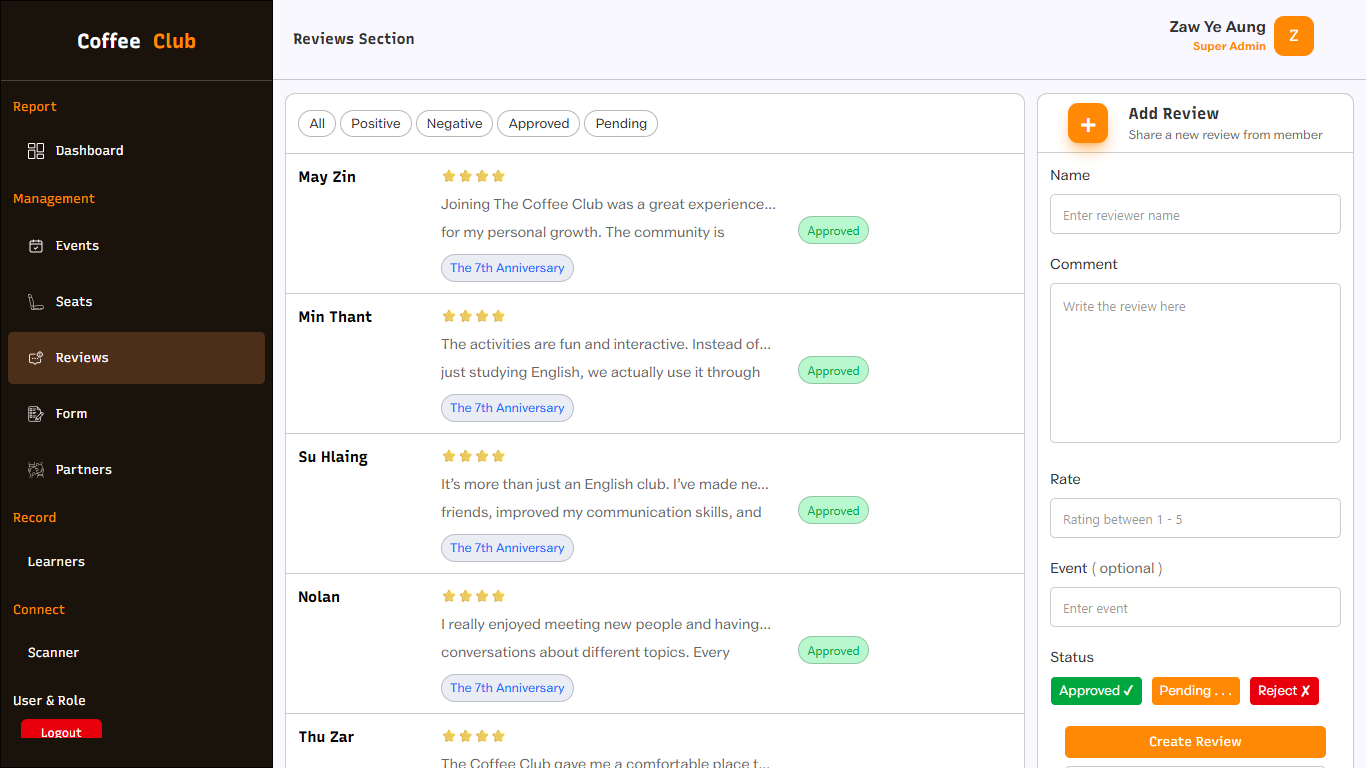
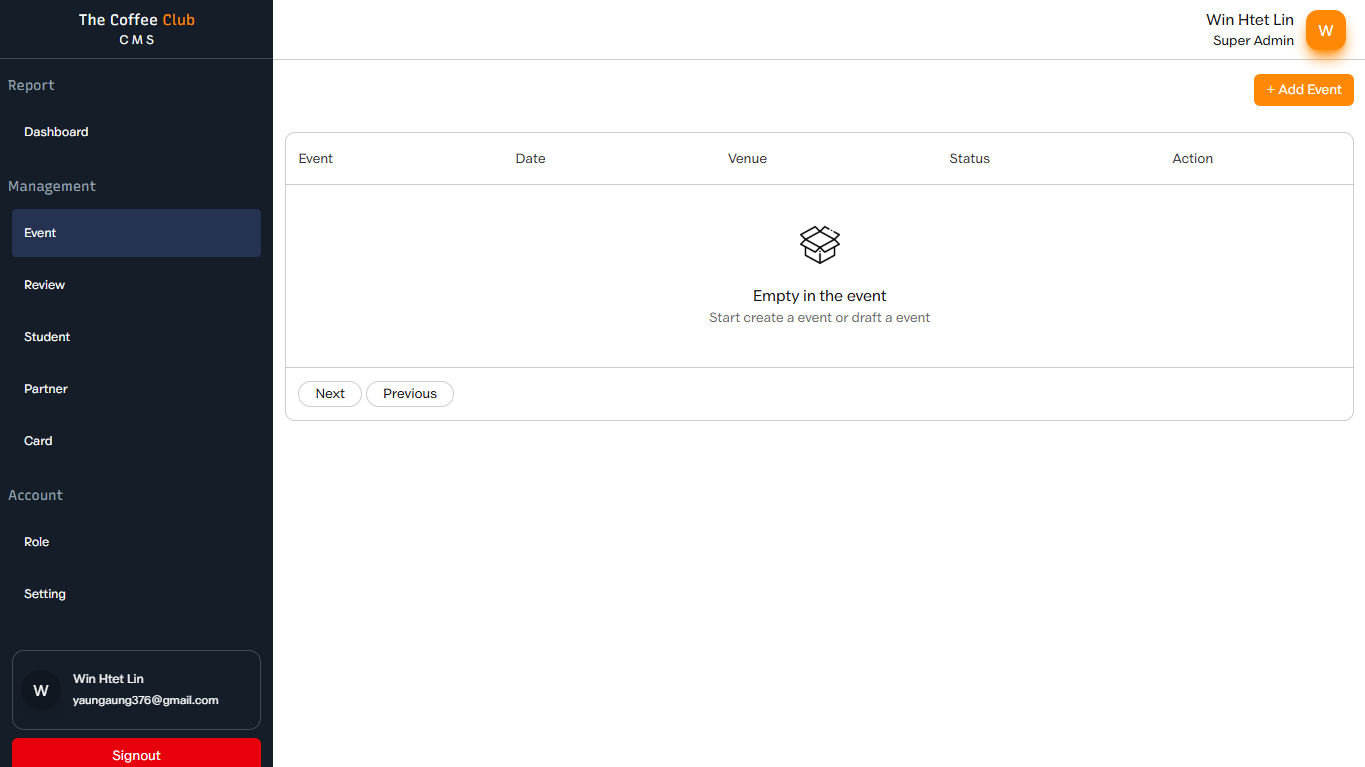
Updated

diff --git a/src/components/intro.jsx b/src/components/intro.jsx
@@ -1,5 +1,4 @@
 import { motion } from 'motion/react';
-import { useRef } from 'react';
 import SocialIcon from '../techstack.js';
 import MiPhoto from '../assets/mi.png';
 
@@ -28,39 +27,39 @@ const Intro = ({ ScrollToSection, ContactRef, HomeRef }) => {
     }
 
     return (
-        <div ref={HomeRef} className="flex flex-col w-full items-center h-[100vh]">
-            <main className="w-full flex flex-col items-center h-[100%]">
-                <div className="flex justify-center w-320 h-[95vh] items-center border-b border-[#000]/20">
+        <div ref={HomeRef} className="flex w-full items-center justify-center px-4 sm:px-6">
+            <main className="w-full max-w-[80rem]">
+                <div className="relative flex min-h-[calc(100svh-5rem)] w-full flex-col items-center justify-center overflow-hidden border-b border-[#000]/20 py-10 sm:min-h-[calc(100svh-5rem)] lg:h-[95vh] lg:min-h-0 lg:py-0">
 
                     <motion.h3
                         initial={{ opacity: 0, y: -100 }}
                         animate={{ opacity: 1, x: 0 }}
                         transition={{ duration: 0.30, delay: 0.20 }}
-                        className="font-[Faleko] font-bold text-[#000]/60 text-[300px] relative"
+                        className="relative z-0 whitespace-nowrap text-center font-[Faleko] font-bold leading-none text-[#000]/60 text-[clamp(3.5rem,16vw,8rem)] lg:text-[300px]"
                     >
                         Win <span className="text-blue-600">Htet</span> Lin
                     </motion.h3>
 
-                    <div className="absolute z-5 h-[100%] top-25 flex justify-center items-center">
+                    <div className="relative z-10 flex w-full flex-col items-center justify-center gap-5 pt-6 sm:pt-8 lg:absolute lg:inset-x-0 lg:top-25 lg:h-full lg:flex-row lg:gap-0 lg:pt-0">
                         <motion.section
                             initial={{ opacity: 0, x: -100 }}
                             animate={{ opacity: 1, x: 0 }}
                             transition={{ duration: 0.30, delay: 1 }}
-                            className="w-[20%] flex flex-col items-end pt-50"
+                            className="order-2 flex w-full max-w-xl flex-col items-center pt-0 text-center lg:order-1 lg:w-[20%] lg:items-end lg:pt-50 lg:text-left"
                         >
-                            <div className="flex flex-col justify-center items-start">
-                                <span className="font-[Valley] text-[11px] font-bold text-[#000]/80 border border-[#000]/20 pl-3 pr-3 pt-1 pb-1 rounded-3xl flex gap-1 shadow-lg">
+                            <div className="flex flex-col justify-center items-center">
+                                <span className="flex flex-wrap pt-0.5 pb-0.5 justify-center gap-1 rounded-3xl border border-[#000]/20 px-3 py- text-center font-[Valley] text-[10px] font-bold text-[#000]/80 shadow-lg sm:text-[11px] lg:text-[10px] lg:justify-start lg:text-left">
                                     FRONTEND-FOCUS <span>FULLSTACK ENGINEER</span>
                                 </span>
-                                <p className="font-[Recursive] text-[15px] leading-6 mt-3 ml-5 text-[#000]/60">
+                                <p className="mt-3 max-w-prose font-[Recursive] text-[13px] leading-6 text-[#000]/60 sm:text-[15px] lg:ml-5">
                                     I build landing-site, profile & management systems with <span className="text-blue-600">MERN</span> stack. I care
                                     about the product how can easy to use.
                                 </p>
 
-                                <div className="flex justify-start items-center w-full mt-7 pl-5">
+                                <div className="mt-5 flex w-full items-center justify-center sm:mt-7 lg:justify-start lg:pl-5">
                                     <button
                                         onClick={() => handleScroll()}
-                                        className="w-40 h-10 bg-[#000] flex justify-center items-center text-[#fff] font-[Valley] text-[13px] cursor-pointer rounded-3xl hover:scale-[1.05] transition duration-400 ease-in-out"
+                                        className="flex h-10 w-40 items-center justify-center rounded-3xl bg-[#000] font-[Valley] text-[13px] text-[#fff] transition duration-300 ease-in-out hover:scale-[1.05]"
                                     >
                                         Let's Collaborate
                                     </button>
@@ -72,23 +71,23 @@ const Intro = ({ ScrollToSection, ContactRef, HomeRef }) => {
                             initial={{ opacity: 0 }}
                             animate={{ opacity: 1 }}
                             transition={{ duration: 0.30, delay: 0.30 }}
-                            className="grayscale hover:grayscale-0 w-100 h-[70vh] flex items-end"
+                            className="order-1 flex w-[min(65vw,18rem)] items-end grayscale transition sm:w-[min(58vw,22rem)] lg:order-2 lg:h-[70vh] lg:w-100"
                         >
-                            <img src={MiPhoto} className="grayscale w-full hover:grayscale-0 transition duration-200 select-none" />
+                            <img src={MiPhoto} alt="Win Htet Lin" className="w-full select-none grayscale transition duration-200 hover:grayscale-0" />
                         </motion.div>
 
                         <motion.section
                             initial={{ opacity: 0, x: 100 }}
                             animate={{ opacity: 1, x: 0 }}
                             transition={{ duration: 0.30, delay: 1 }}
-                            className="w-[20%] list-none font-[Valley] flex flex-col items-end gap-3 pt-40"
+                            className="order-3 flex w-full flex-row flex-wrap justify-center gap-2 list-none font-[Valley] pt-0 sm:gap-3 lg:w-[20%] lg:flex-col lg:items-end lg:justify-start lg:gap-3 lg:pt-40"
                         >
                             {ContactLinks.map((element, index) => {
                                 return (
                                     <li
                                         key={index}
                                         onClick={() => handleContact(element)}
-                                        className="flex justify-start pl-3 items-center gap-3 w-35 h-10 bg-[#fff] rounded-3xl shadow-lg cursor-default hover:scale-[1.05] hover:shadow-white transition duration-200"
+                                        className="flex h-10 w-32 items-center justify-start gap-3 rounded-3xl bg-[#fff] pl-3 shadow-lg transition duration-200 hover:scale-[1.05] hover:shadow-white cursor-pointer sm:w-35 lg:w-35"
                                     >
                                         <img src={SocialIcon[element]} className="w-4" />
                                         <span>{element}</span>

diff --git a/src/components/experience.jsx b/src/components/experience.jsx
@@ -13,16 +13,16 @@ const ExperienceTimeline = ({ ExperienceRef }) => {
     }
 
     return (
-        <div ref={ExperienceRef} className="h-[100%] flex justify-center items-center pt-20">
-            <div className="w-320 h-full">
-                <header className='flex justify-between'>
-                    <h3 className="font-[SilkScreen] text-[15px]">Experience TIMELINE</h3>
+        <div ref={ExperienceRef} className="flex justify-center px-4 pt-16 sm:px-6 sm:pt-20">
+            <div className="h-full w-full max-w-[80rem]">
+                <header className='flex flex-col items-start justify-between gap-4 sm:flex-row sm:items-center'>
+                    <h3 className="font-[SilkScreen] text-[13px] sm:text-[15px]">Experience TIMELINE</h3>
                     <button 
                     onClick={handleSwitch}
                     className='font-[Valley] text-[13px] pl-4 pr-4 pt-1 pb-1 rounded-lg bg-[#000] text-[#fff] cursor-pointer active:scale-[0.9] transition duration-200 hover:shadow-lg'>Switch : {activeswitch}</button>
                 </header>
 
-                <div className="flex flex-col justify-center list-none mt-10">
+                <div className="mt-7 flex list-none flex-col justify-center sm:mt-10">
                     {
                         activeswitch === "Learning" && ExpereienceData.map((experience, index) => {
                             return (
@@ -30,14 +30,14 @@ const ExperienceTimeline = ({ ExperienceRef }) => {
                                 initial={{ opacity: 0, x: -200 }}
                                 whileInView={{ opacity: 1, x: 0}}
                                 viewport={{ once: true, amount: 0.15 }}
-                                key={index} className='h-[100%] pb-10 pl-10 pt-3 border-b border-[#000]/20 pr-10'>
-                                    <div className='flex justify-between'>
+                                key={index} className='h-[100%] border-b border-[#000]/20 px-2 pb-8 pt-4 sm:px-6 sm:pb-10 lg:px-10'>
+                                    <div className='flex flex-col justify-between gap-2 sm:flex-row sm:gap-4'>
                                         <div>
-                                            <h3 className='font-[Recursive] font-bold text-[20px]'>{experience.position}</h3>
+                                            <h3 className='font-[Recursive] font-bold text-[17px] sm:text-[20px]'>{experience.position}</h3>
                                             <span className='font-[Recursive] text-[13px] text-[#000]/60 underline underline-offset-6 hover:text-blue-600 transition duration-200 cursor-default'>{experience.company}</span>
                                         </div>
                                         <div>
-                                            <span className='font-[Recursive] text-[15px]'>{experience.starttime} - {experience.endtime}</span>
+                                            <span className='font-[Recursive] text-[12px] text-[#000]/70 sm:text-[15px]'>{experience.starttime} - {experience.endtime}</span>
                                         </div>
                                     </div>
                                     <p className='font-[Valley] text-[15px] mt-5 text-[#000]/80 leading-7'>{experience.description}</p>
@@ -53,14 +53,14 @@ const ExperienceTimeline = ({ ExperienceRef }) => {
                                 initial={{ opacity: 0, x: -200 }}
                                 whileInView={{ opacity: 1, x: 0}}
                                 viewport={{ once: true, amount: 0.15 }}
-                                key={index} className='h-[100%] pb-10 pl-10 pt-3 border-b border-[#000]/20 pr-10'>
-                                    <div className='flex justify-between'>
+                                key={index} className='h-[100%] border-b border-[#000]/20 px-2 pb-8 pt-4 sm:px-6 sm:pb-10 lg:px-10'>
+                                    <div className='flex flex-col justify-between gap-2 sm:flex-row sm:gap-4'>
                                         <div>
-                                            <h3 className='font-[Recursive] font-bold text-[20px]'>{education.course}</h3>
+                                            <h3 className='font-[Recursive] font-bold text-[17px] sm:text-[20px]'>{education.course}</h3>
                                             <span className='font-[Recursive] text-[13px] text-[#000]/60 underline underline-offset-6 hover:text-blue-600 transition duration-200 cursor-default'>{education.school}</span>
                                         </div>
                                         <div>
-                                            <span className='font-[Recursive] text-[15px]'>{education.starttime} - {education.endtime}</span>
+                                            <span className='font-[Recursive] text-[12px] text-[#000]/70 sm:text-[15px]'>{education.starttime} - {education.endtime}</span>
                                         </div>
                                     </div>
                                     <p className='font-[Valley] text-[15px] mt-5 text-[#000]/80 leading-7'>{education.description}</p>

diff --git a/src/page/detail.jsx b/src/page/detail.jsx
@@ -23,30 +23,30 @@ const ProjectDetail = () => {
             initial={{ opacity: 0 }}
             animate={{ opacity: 1 }}
             transition={{ duration: 1, delay: 0.50 }}
-            className="bg-[#eeeee5] h-[100%] flex justify-center pt-20">
-            <div className="w-320 p-5">
-                <header className="flex h-15 items-center gap-5">
+            className="bg-[#eeeee5] min-h-screen flex justify-center px-4 pt-16 sm:px-6 sm:pt-20">
+            <div className="w-full max-w-[80rem] py-5">
+                <header className="flex min-h-15 items-center gap-3 sm:gap-5">
                     <Link
                         to={"/"}
                         className="pl-4 pr-4 text-[13px] pt-1 pb-1 rounded-[10px] border border-[#000]/20 text-[#000]/60 font-[Recursive] cursor-pointer hover:bg-[#000] hover:text-[#fff] transition duration-200">
                         Back
                     </Link>
-                    <span className="font-[Recursive] text-[13px] text-[#000]/60">Projects &gt; {project.title}</span>
+                    <span className="font-[Recursive] text-[11px] sm:text-[13px] text-[#000]/60 break-words">Projects &gt; {project.title}</span>
                 </header>
 
-                <main className="w-full pt-10 flex justify-center gap-10">
-                    <section className="w-[50%]">
+                <main className="w-full pt-6 sm:pt-10 flex flex-col lg:flex-row items-stretch lg:items-start justify-center gap-8 lg:gap-10">
+                    <section className="w-full lg:w-1/2 min-w-0">
                         <span className="font-[Recursive] text-blue-600 text-[15px]">{project.tag?.toUpperCase() || "FULL-STACK"} PROJECT</span>
-                        <h3 className="text-[30px] font-[ka1]">{project.title}</h3>
+                        <h3 className="text-[24px] sm:text-[30px] font-[ka1] break-words">{project.title}</h3>
 
-                        <p className="font-[Valley] text-[15px] text-[#000]/60 mt-7 leading-7 mr-20">{project.description}</p>
+                        <p className="font-[Valley] text-[15px] text-[#000]/60 mt-5 sm:mt-7 leading-7 lg:mr-8 xl:mr-20">{project.description}</p>
 
-                        <ul className="flex justify-start items-center mt-5 gap-3">
-                            <li className="w-[50%] shadow-lg rounded-lg pl-20 h-20 flex flex-col justify-center items-start bg-[#fff]">
+                        <ul className="flex justify-start items-stretch mt-5 gap-3">
+                            <li className="w-1/2 shadow-lg rounded-lg px-4 sm:px-6 lg:px-5 xl:px-8 h-20 flex flex-col justify-center items-start bg-[#fff]">
                                 <span className="font-[Recursive] font-bold text-[17px]">{project.size}</span>
                                 <span className="font-[Valley] text-[12px] text-[#000]/60">TECHNOLOGIES</span>
                             </li>
-                            <li className="w-[50%] shadow-lg rounded-lg pl-20 h-20 flex flex-col justify-center items-start bg-[#fff]">
+                            <li className="w-1/2 shadow-lg rounded-lg px-4 sm:px-6 lg:px-5 xl:px-8 h-20 flex flex-col justify-center items-start bg-[#fff]">
                                 <span className="font-[Recursive] font-bold text-[17px]">{project.status}</span>
                                 <span className="font-[Valley] text-[12px] text-[#000]/60">STATUS</span>
                             </li>
@@ -56,7 +56,7 @@ const ProjectDetail = () => {
 
                         <div className="flex flex-col font-[Valley] mt-7">
                             <span className="text-[15px]">Technologies Used</span>
-                            <ul className="flex justify-start items-center tech-icon gap-2 mt-3 text-[13px]">
+                            <ul className="flex flex-wrap justify-start items-center tech-icon gap-2 mt-3 text-[13px]">
                                 {
                                     project.tech.map((element, index) => {
                                         return (
@@ -68,12 +68,12 @@ const ProjectDetail = () => {
                         </div>
                     </section>
 
-                    <section className="w-[50%] flex flex-col items-center gap-3">
-                        <div className='w-120 rounded-xl overflow-hidden'>
-                            <img src={project.cover} alt={project.title} />
+                    <section className="w-full lg:w-1/2 min-w-0 flex flex-col items-center gap-3">
+                        <div className='w-full max-w-120 rounded-xl overflow-hidden'>
+                            <img src={project.cover} alt={project.title} className="w-full h-auto object-cover" />
                         </div>
 
-                        <div className='bg-[#fff] h-100 w-120 rounded-xl shadow-lg border border-[#000]/20'>
+                        <div className='bg-[#fff] min-h-60 sm:min-h-80 w-full max-w-120 rounded-xl shadow-lg border border-[#000]/20'>
                             {/* Additional project info */}
                         </div>
                     </section>

diff --git a/src/components/project.jsx b/src/components/project.jsx
@@ -24,8 +24,7 @@ const ProjectCard = ({ element, index }) => {
     <motion.li
       variants={items}
       key={index}
-      onClick={() => navigate(`/project/${element.title}`)}
-      className="w-80 h-85 rounded-3xl border border-[#000]/20 overflow-hidden hover:scale-[1.05] hover:shadow-lg shadow-[#fff] transition duration-200 cursor-pointer list-none">
+      className="w-full max-w-80 h-85 rounded-3xl border border-[#000]/20 overflow-hidden hover:scale-[1.02] sm:hover:scale-[1.05] hover:shadow-lg shadow-[#fff] transition duration-200 cursor-pointer list-none">
       <div className="h-50 border-b border-[#000]/20 overflow-hidden">
         <img src={element.cover} alt={element.title} className="w-full h-full select-none object-cover" />
       </div>
@@ -62,27 +61,27 @@ const ProjectShowCase = ({ ProjectRef }) => {
     : Practice.filter((element) => element.tag === activeValue);
 
   return (
-    <div ref={ProjectRef} className="h-[100vh] w-full flex justify-center pt-20">
+    <div ref={ProjectRef} className="min-h-screen w-full flex justify-center px-4 pt-16 sm:px-6 sm:pt-20">
       <motion.div
         initial={{ opacity: 0 }}
         whileInView={{ opacity: 1 }}
         transition={{ duration: 0.30, delay: 0.30 }}
-        className="w-320 pb-30 border-b border-[#000]/20">
-        <header className="h-30 flex justify-between list-none gap-2 items-center pl-3">
+        className="w-full max-w-[80rem] pb-20 sm:pb-30 border-b border-[#000]/20">
+        <header className="flex flex-col sm:flex-row sm:justify-between list-none gap-5 sm:gap-2 items-start sm:items-center px-1 sm:px-3 py-5 sm:py-0 sm:min-h-30">
           <div className="flex flex-col gap-1">
             <h3 className="font-[SilkScreen] text-[13px]">SELECTED PROJECTS</h3>
-            <h3 className="font-[Vegan] text-[30px]">Work <span className="text-blue-600">Gallery</span></h3>
+            <h3 className="font-[Vegan] text-[26px] sm:text-[30px]">Work <span className="text-blue-600">Gallery</span></h3>
             <p className="font-[Valley] text-[13px] text-[#000]/60 mt-1">A collection of systems, products and technical work I built.</p>
           </div>
 
-          <ul className="flex gap-2">
+          <ul className="flex flex-wrap gap-2">
             {
               MenuTags.map((Tags, index) => {
                 return (
                   <li
                     onClick={() => handleCategory(Tags)}
                     key={index}
-                    className={`border border-[#000]/20 pl-3 pr-3 pt-1 pb-1 rounded-3xl shadow-lg cursor-pointer hover:bg-[#fff] text-[#000]/60 transition duration-200 font-[Recursive] text-[15px] ${Tags === activeValue ? "bg-[#fff]" : ""}`}>
+                    className={`border border-[#000]/20 px-3 py-1 rounded-3xl shadow-lg cursor-pointer hover:bg-[#fff] text-[#000]/60 transition duration-200 font-[Recursive] text-[13px] sm:text-[15px] ${Tags === activeValue ? "bg-[#fff]" : ""}`}>
                     {Tags}
                   </li>
                 )
@@ -91,14 +90,14 @@ const ProjectShowCase = ({ ProjectRef }) => {
           </ul>
         </header>
 
-        <div className="flex pt-10">
+        <div className="flex pt-6 sm:pt-10">
             <motion.div
                 key={activeValue}
                 variants={container}
                 initial="hidden"
                 whileInView="visible"
                 viewport={{ once: true, amount: 0.15 }}
-                className="flex flex-wrap gap-3 w-full">
+                className="grid grid-cols-1 sm:grid-cols-2 lg:grid-cols-3 xl:grid-cols-4 gap-4 sm:gap-5 w-full justify-items-center sm:justify-items-start">
                 {
                     filteredProjects.map((element, index) => (
                     <ProjectCard element={element} index={index} key={index} />

diff --git a/src/components/about.jsx b/src/components/about.jsx
@@ -29,11 +29,11 @@ const { React, TailwindCss, Python, HTML5, CSS3, JavaScript, Nodejs, Express, Po
 
 const About = ({ AboutRef }) => {
     return (
-        <div ref={AboutRef} className="h-[100%] pt-20">
-            <div className="w-320 border-b border-[#000]/20 pb-20">
+        <div ref={AboutRef} className="px-4 pt-16 sm:px-6 sm:pt-20">
+            <div className="mx-auto w-full max-w-[80rem] border-b border-[#000]/20 pb-16 sm:pb-20">
                 <div>
                     <h3 className="font-[SilkScreen] text-[13px]">ABOUT ME</h3>
-                    <div className='font-[Recursive] text-[30px] font-bold'>
+                    <div className='mt-1 font-[Recursive] text-[20px] font-bold sm:text-[25px] lg:text-[30px]'>
                         <Typewriter 
                         options={{ 
                             strings: ["Frontend Focus : Full-stack Engineer", "IT Support Specialist", "UI/UX Designer", "Just A Student"], 
@@ -46,16 +46,16 @@ const About = ({ AboutRef }) => {
                         />
                     </div>
                 </div>
-                <div className="flex mt-20 pl-40 pr-40">
-                    <section className="flex flex-col w-[20%]">
-                        <div className="w-30 h-30 rounded-[50%] overflow-hidden">
-                            <img src={MiPhoto} className='h-30'/>
+                <div className="mt-10 flex flex-col gap-6 sm:mt-14 sm:flex-row sm:gap-8 lg:mt-20 lg:px-10 xl:px-20">
+                    <section className="flex w-full justify-center sm:w-[25%] sm:justify-start">
+                        <div className="h-24 w-24 rounded-full overflow-hidden sm:h-28 sm:w-28 lg:h-30 lg:w-30">
+                            <img src={MiPhoto} alt="Win Htet Lin" className='h-full w-full object-cover'/>
                         </div>
                     </section>
 
-                    <section className="flex flex-col w-[80%]">
+                    <section className="flex min-w-0 w-full flex-col sm:w-[75%]">
                         <h3 className="font-[Inder] font-bold text-[20px] text-[#000]/80">WIN HTET LIN</h3>
-                        <ul className="flex justify-start items-center mt-3 gap-5">
+                        <ul className="mt-3 flex flex-wrap items-center justify-start gap-x-5 gap-y-3 sm:gap-5">
                             {
                                 Items.map((element, index) => {
                                     return (

diff --git a/src/components/contact.jsx b/src/components/contact.jsx
@@ -27,24 +27,24 @@ const Contact = ({ ContactRef }) => {
     return (
         <div 
         ref={ContactRef}
-        className="h-[100%] items-center pb-20  flex justify-center pt-30">
+        className="flex items-center justify-center px-4 pb-16 pt-20 sm:px-6 sm:pb-20 sm:pt-28">
             <motion.div 
             initial={{ opacity: 0, y: 100 }}
             whileInView={{ opacity: 1, y: 0 }}
             transition={{ duration: 0.30, delay: 0.5}}
-            className="w-320">
+            className="w-full max-w-[80rem]">
                 <header className="flex flex-col justify-center items-center">
                     <h3 className="text-[13px] font-[Valley]">GET IN TOUCH</h3>
-                    <h1 className="font-[ka1] font-bold text-[30px]"><span className='text-orange-600'>Let</span><span className="text-blue-600"> Work</span> Together</h1>
+                    <h1 className="text-center font-[ka1] font-bold text-[24px] sm:text-[30px]"><span className='text-orange-600'>Let</span><span className="text-blue-600"> Work</span> Together</h1>
 
-                    <p className='font-[Inder] text-[15px] text-[#000]/60 mt-10'>Have a project idea in mind or just want to connect? Reach me here.</p>
+                    <p className='mt-6 text-center font-[Inder] text-[14px] text-[#000]/60 sm:mt-10 sm:text-[15px]'>Have a project idea in mind or just want to connect? Reach me here.</p>
                 </header>
 
-                <ul className='flex justify-center items-center gap-3 mt-2'>
+                <ul className='mt-3 flex flex-wrap items-center justify-center gap-1 sm:gap-3'>
                     {
                         ContactLinks.map((element, index) => {
                             return (
-                                <li key={index} onClick={() => handleContact(element)} className='flex justify-start pl-3 items-center gap-3 w-35 h-10 rounded-xl cursor-default hover:scale-[1.05] hover:text-blue-600 transition duration-200'>
+                                <li key={index} onClick={() => handleContact(element)} className='flex h-10 w-32 items-center justify-start gap-3 rounded-xl pl-3 cursor-pointer hover:scale-[1.05] hover:text-blue-600 transition duration-200 sm:w-35'>
                                 <img src={SocialIcon[element]} className='w-4'/>
                                 <span>{element}</span>
                                 </li>

diff --git a/src/components/navbar.jsx b/src/components/navbar.jsx
@@ -40,24 +40,24 @@ const Navbar = ({ ScrollToSection, HomeRef, ProjectRef, AboutRef, ExperienceRef 
             }}
             className="h-20 w-full flex items-center justify-center sticky z-50 top-0 border-b border-[#000]/20 backdrop-blur-lg"
         >
-            <div className="w-320 flex justify-between items-center pl-3 pr-5 font-[Recursive]">
-                <h3 className="w-[max-content] pl-2 pr-2 h-full flex justify-center items-center text-blue-600 text-[15px]">
+            <div className="w-full max-w-[80rem] flex justify-between gap-2 items-center px-3 sm:px-5 font-[Recursive]">
+                <h3 className="shrink-0 px-2 h-full flex justify-center items-center text-blue-600 text-[15px]">
                     {Logo}
                 </h3>
-                <ul className="flex gap-1 bg-[#eeeee5] pl-2 pr-2 pt-2 pb-2 rounded-3xl">
+                <ul className="hidden min-w-0 gap-0.5 overflow-x-auto bg-[#eeeee5] px-1.5 py-2 rounded-3xl sm:flex sm:gap-1 sm:px-2">
                     {
                        menuTags.map((Tag, index) => {
                         return(
                             <li 
                             onClick={() => handleScroll(Tag)}
                             key={index}
-                            className="text-[13px] text-[#000]/60 hover:bg-[#fff] pl-3 pr-3 pt-1 pb-1 cursor-pointer rounded-3xl transition duration-200"
+                            className="shrink-0 text-[11px] sm:text-[13px] text-[#000]/60 hover:bg-[#fff] px-2 sm:px-3 py-1 cursor-pointer rounded-3xl transition duration-200"
                             >{Tag}</li>
                         )
                        }) 
                     }
                 </ul>
-                <span className="text-[13px]">GMT 6:30</span>
+                <span className="hidden shrink-0 text-[13px] sm:block">GMT 6:30</span>
             </div>
         </motion.nav>
     );

diff --git a/src/components/Footer.jsx b/src/components/Footer.jsx
@@ -7,11 +7,11 @@ const FooterContainer = ({ ScrollToSection, HomeRef }) => {
 
     return (
         <div className="h-20 w-full flex justify-center items-center text-[#000]/60 border-t border-[#000]/20">
-            <div className="w-320 flex justify-between items-center pl-5 pr-5">
-                <span className="font-[Recursive] text-[13px] items-center">@ {GetCopyRightyear()} Win Htet Lin. All right reserved.</span>
+            <div className="w-full max-w-[80rem] flex flex-col justify-center gap-2 px-4 text-center sm:flex-row sm:justify-between sm:items-center sm:px-5 sm:text-left">
+                <span className="font-[Recursive] text-[11px] sm:text-[13px]">@ {GetCopyRightyear()} Win Htet Lin. All right reserved.</span>
                 <span 
                 onClick={() => ScrollToSection(HomeRef)}
-                className="font-[Recursive] text-[13px] hover:text-blue-600 transition duration-200 cursor-pointer">Scroll To Top</span>
+                className="font-[Recursive] text-[11px] sm:text-[13px] hover:text-blue-600 transition duration-200 cursor-pointer">Scroll To Top</span>
             </div>
         </div>
     )
